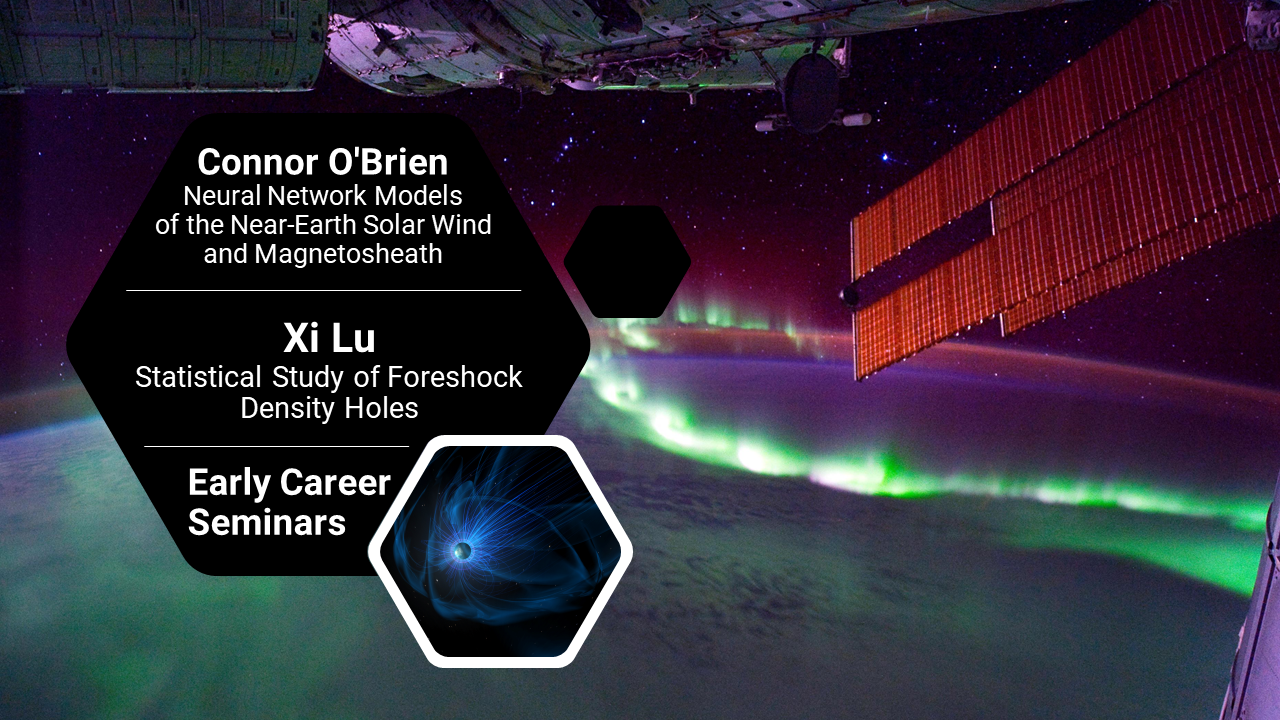
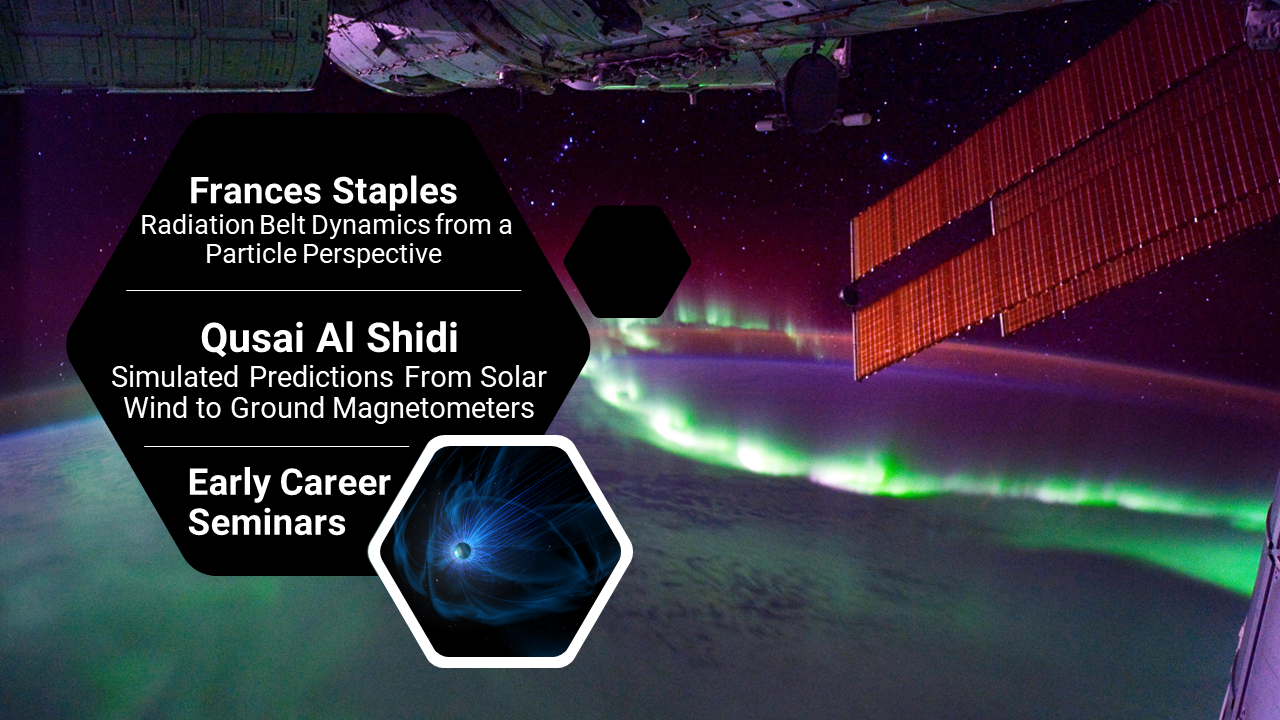
Updates for next seminar

Changed region(s): [[0.0938, 0.4278, 0.4375, 0.5806], [0.0938, 0.1833, 0.4062, 0.3667]]

diff --git a/docs/abstracts.md b/docs/abstracts.md
@@ -15,4 +15,6 @@ Outer radiation belt electron flux is controlled by a variety of physical proces
 
 <h3>Qusai Al Shidi</h3>
 
+*Simulated Predictions From Solar Wind to Ground Magnetometers* 
+
 We use the Space Weather Modeling Framework (SWMF) Geospace configuration to simulate hundreds of storms from the period 2010-2019. With the focus on the storm main phase, each storm period was run for 54 hours starting from 6 hours prior to the start of the Dst depression. The simulation output of ground magnetic variations were compared with ground magnetometer station data provided by SuperMAG to statistically assess the Geospace model regional prediction performance.
